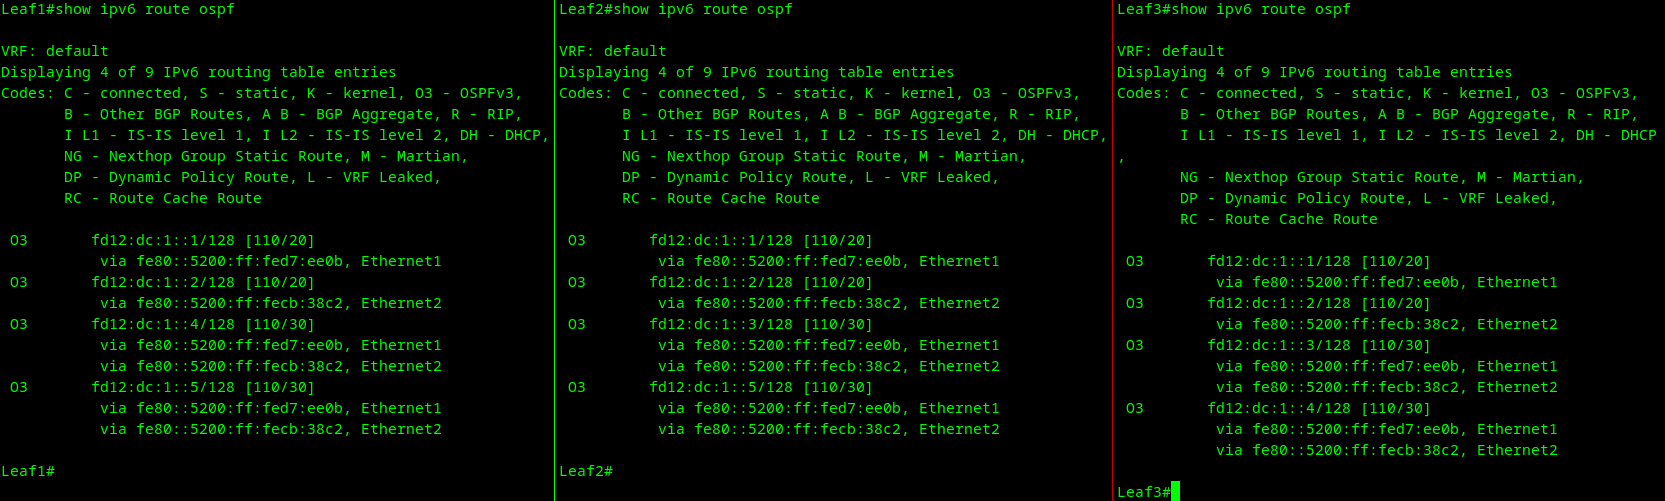
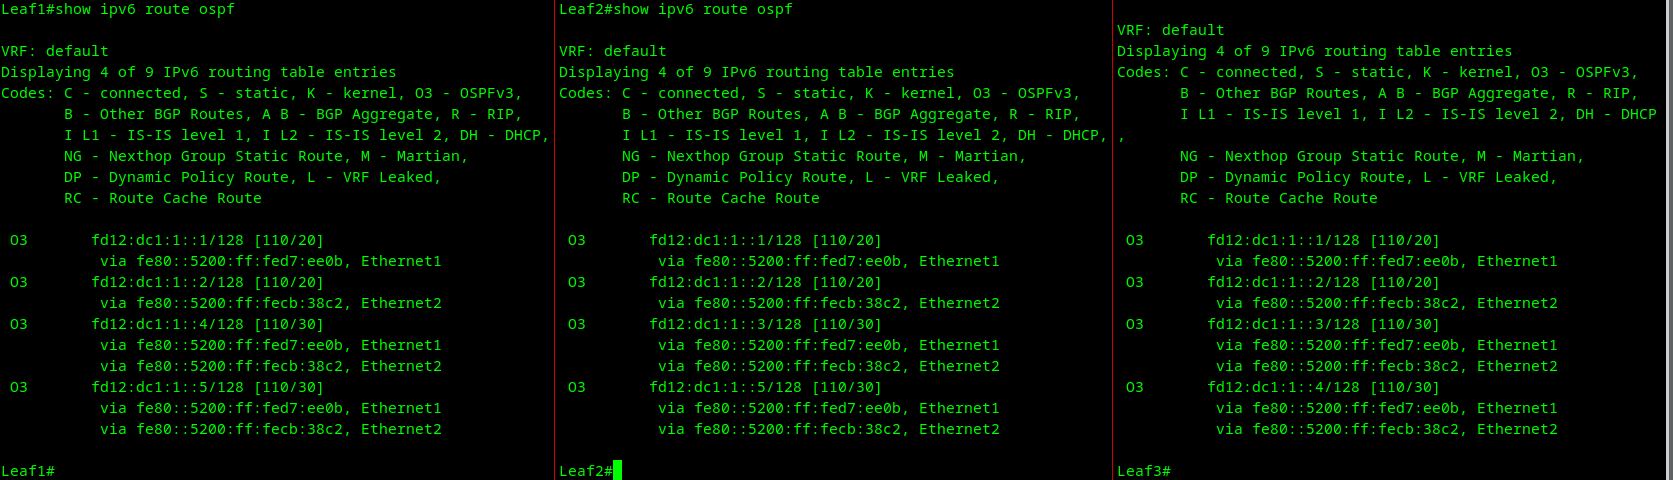
Modify README.md and add some pictures

diff --git a/hometasks/dc-ht-2/README.md b/hometasks/dc-ht-2/README.md
@@ -31,7 +31,7 @@
 Так как OSPF-соседство при использовании IPv6 всегда строится от Link-Local адресов, то IPv6 на интерфейсы Ethernet Spine- и Leaf-коммутаторов было принято решение не назначать, дабы не загромождать конфигурацию.
 
 
-Таким образом, остаётся назначить IPv6-адреса только интерфейсам loopback 0, а заодно и определить router-id для каждого коммутатора. Пусть адреса, назначаемые интерфейсам loopback 0, принадлежат сети fd12:dc:1:0::/64.
+Таким образом, остаётся назначить IPv6-адреса только интерфейсам loopback 0, а заодно и определить router-id для каждого коммутатора. Пусть адреса, назначаемые интерфейсам loopback 0, принадлежат сети fd12:dc1:1:0::/64.
 Тогда адресное пространство сети ЦОДа 1 примет следующий вид:
 
 Device|loopback 0|router-id|
@@ -42,12 +42,13 @@ Leaf1|fd12:dc1:1::3/128|10.1.1.3
 Leaf2|fd12:dc1:1::4/128|10.1.1.4
 Leaf3|fd12:dc1:1::5/128|10.1.1.5
 
-где: loopback 0 3-ий и 4-ый октеты - Порядковый номер ЦОДа - dc1;  
-     loopback 0 6-ой октет - Порядковый номер POD - 1;  
-     loopback 0 16-ой октет Порядковый номер устройства в POD;  
-     router-id 2-ой октет Порядковый номер ЦОДа - 1;  
-     router-id 3-ой октет Порядковый номер POD - 1;  
-     router-id 4-ой октет - Порядковый номер устройства в POD.  
+где:  
+- loopback 0 3-ий и 4-ый октеты - Порядковый номер ЦОДа - dc1;  
+- loopback 0 6-ой октет - Порядковый номер POD - 1;  
+- loopback 0 16-ый октет Порядковый номер устройства в POD;  
+- router-id 2-ой октет Порядковый номер ЦОДа - 1;  
+- router-id 3-ой октет Порядковый номер POD - 1;  
+- router-id 4-ой октет - Порядковый номер устройства в POD.  
 
 Примечание: Для краткости не будем приводить здесь команды назначения IPv6 адресов на интерфейсы loopback 0 каждого коммутатора. Они показаны в листингах конфигураций оборудования.
 
